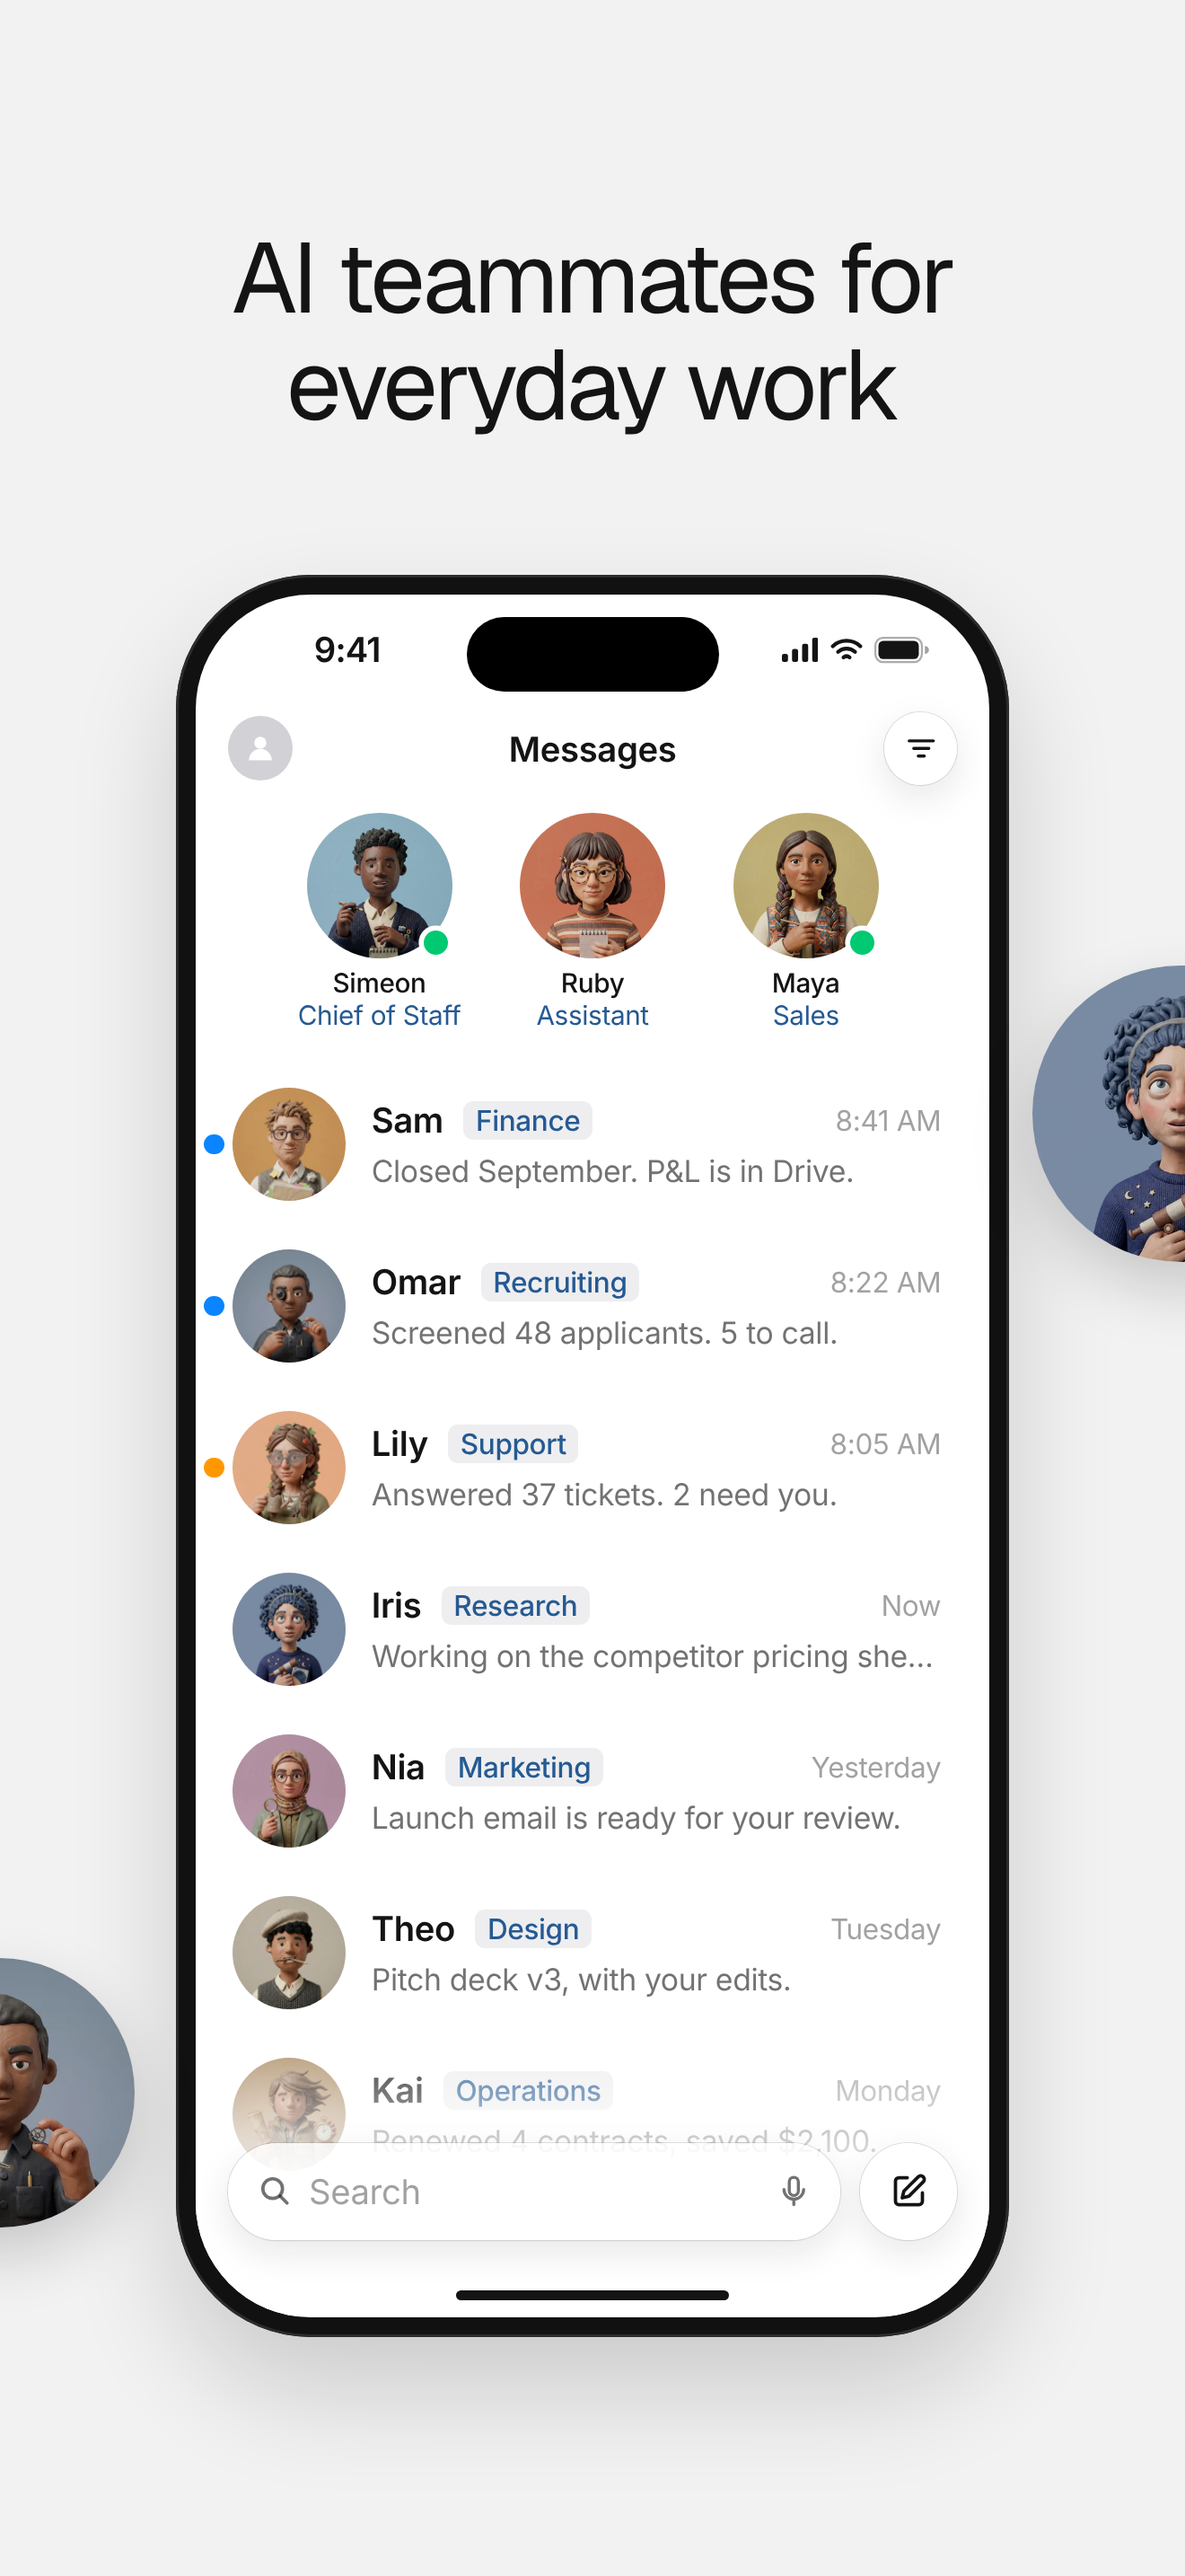
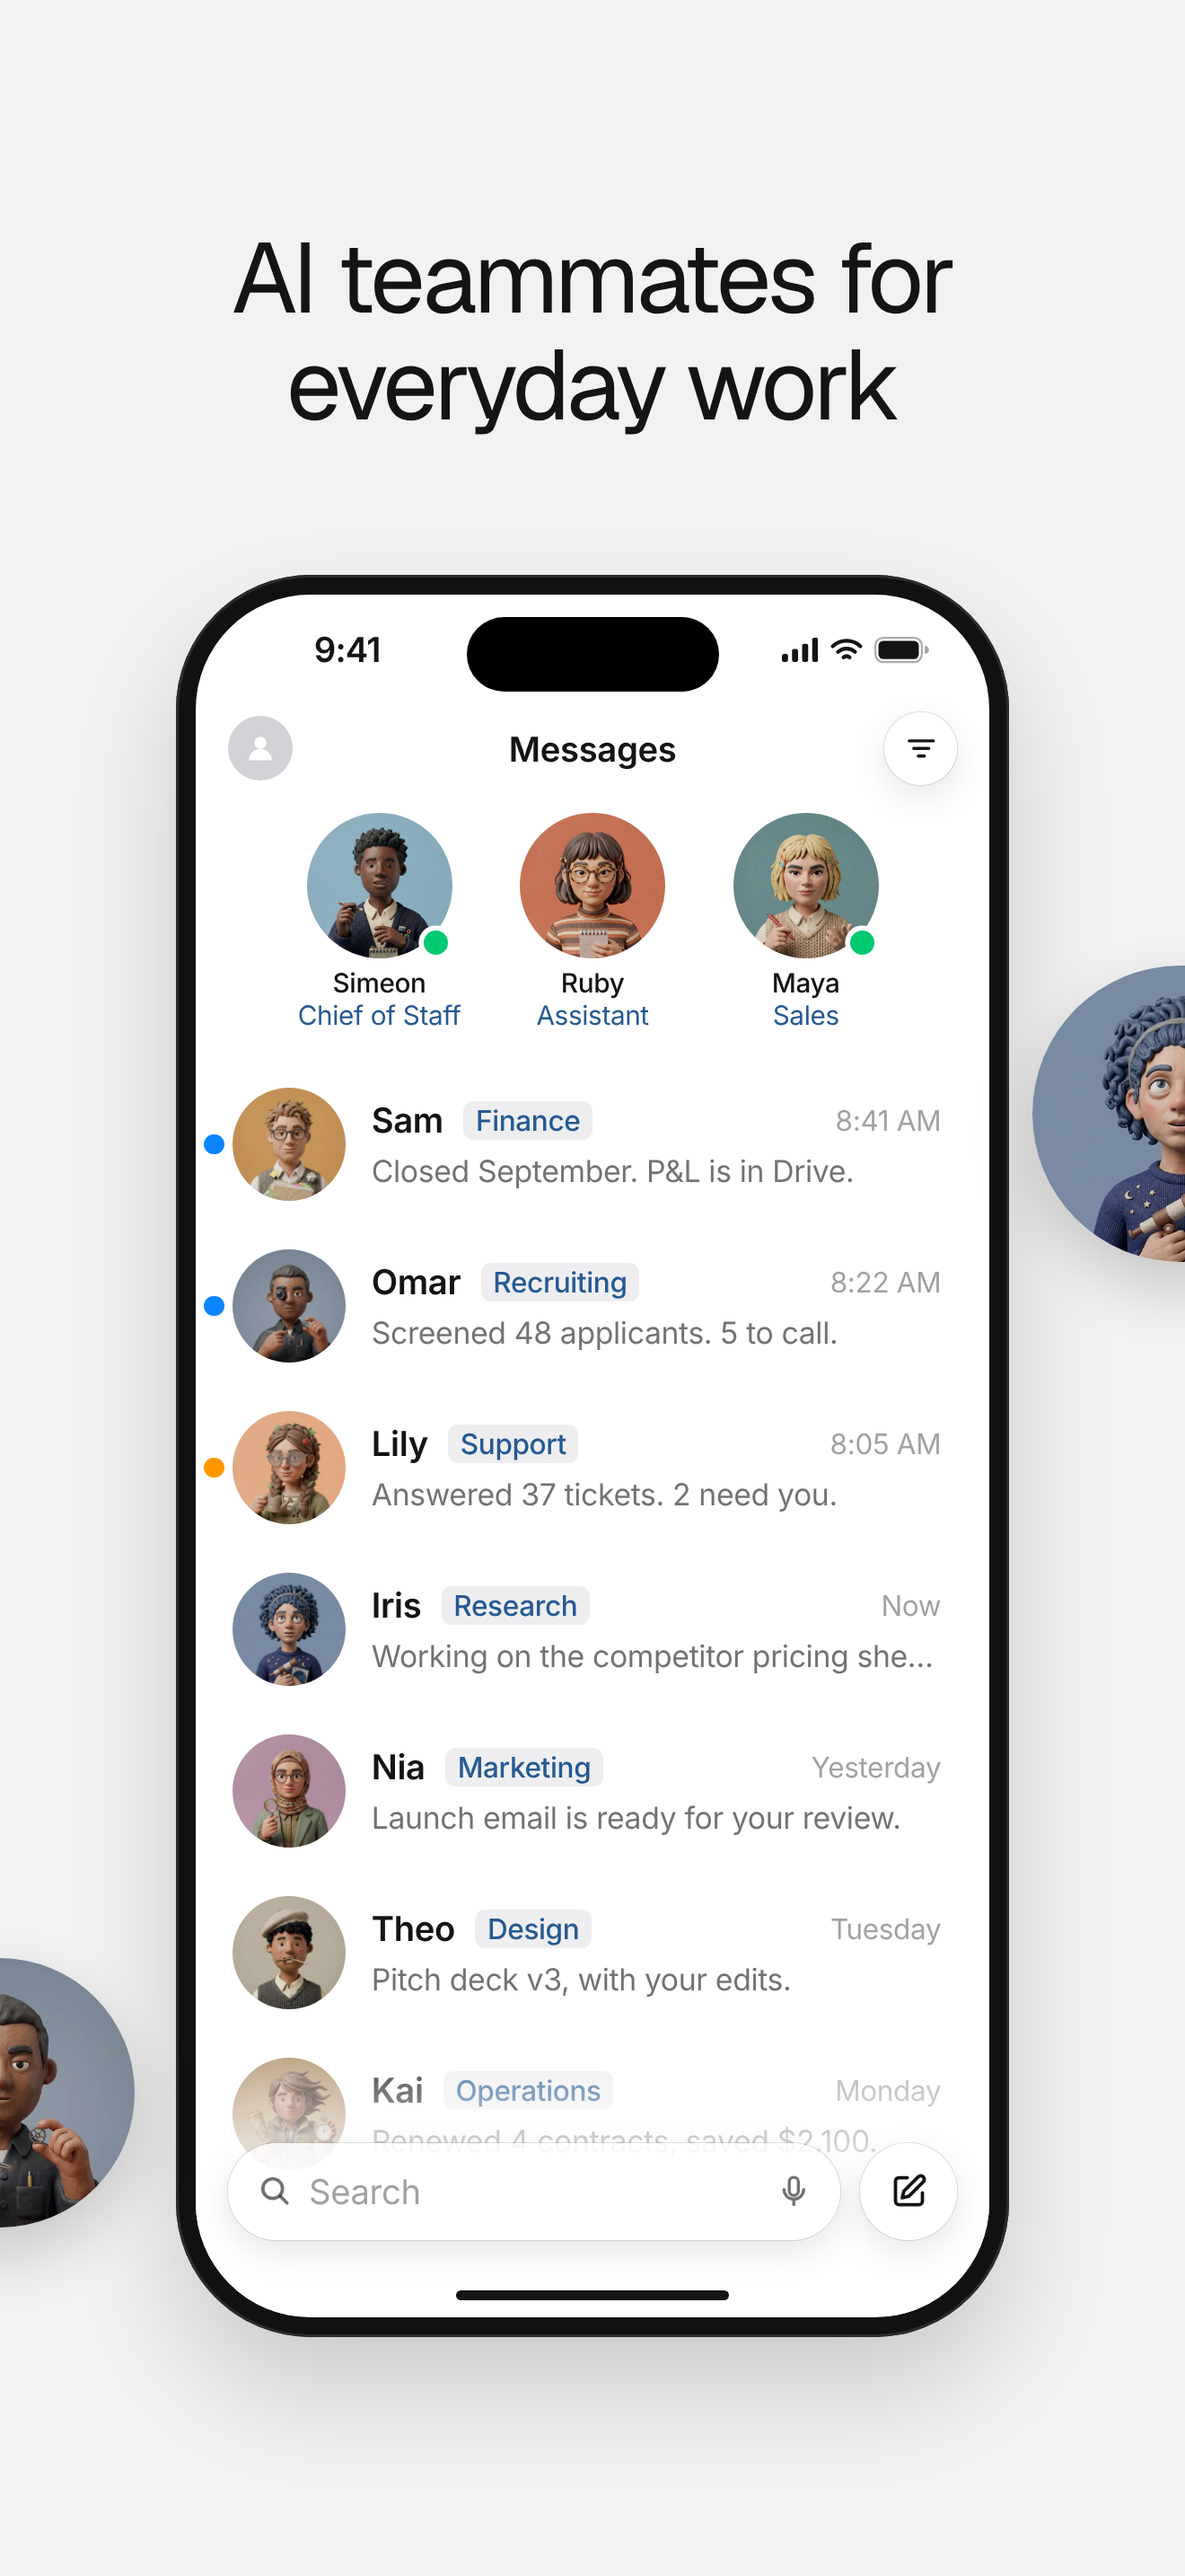
App Store screenshots: Maya wears clay-23
The founder, 11 November 2026: Maya's face is clay-23 on screens 1, 3 and 4,
her joined card in that face's colour (#618283: #7a9697 to #4a6364, Go to
Chat's words #2c3a3b), its standing figure from the apps' catalogue. The
message after her card has room under it.

Claude-Session: https://claude.ai/code/session_01YVdXyUP5gsDTr44eH5Vte9

Changed region(s): [[0.6212, 0.3103, 0.7455, 0.3724]]

diff --git a/ios/AppStore/source/Chief.dc.html b/ios/AppStore/source/Chief.dc.html
@@ -56,23 +56,23 @@ body{margin:0}
           <div class="stamp">Today 9:12 AM</div>
           <div class="me" style="width: 318px; /*fit*/">We need 20 qualified leads for the fintech launch by Friday.</div>
           <div class="them" style="width: 307px; /*fit*/ margin-top: 12px">You need a sales lead for that. I’m adding one to your team now.</div>
-          <div style="align-self: center; margin: 8px 0; display: flex; align-items: center; gap: 4px; font-size: 12px; color: rgba(20,20,20,0.6)">Messaged<span style="display: inline-flex; align-items: center; gap: 4px; padding: 4px 6px 4px 4px"><img src="/_blob/351d114fdcd08760fb0743ba2b8543cb" alt="" style="width: 16px; height: 16px; border-radius: 8px; object-fit: cover; display: block">Maya</span></div>
+          <div style="align-self: center; margin: 8px 0; display: flex; align-items: center; gap: 4px; font-size: 12px; color: rgba(20,20,20,0.6)">Messaged<span style="display: inline-flex; align-items: center; gap: 4px; padding: 4px 6px 4px 4px"><img src="/_blob/26b241f19897d539c06b49196b9fc4a5" alt="" style="width: 16px; height: 16px; border-radius: 8px; object-fit: cover; display: block">Maya</span></div>
           <!-- The card the app shows when a teammate is hired (Cards.swift, JoinedCardView; the founder, 11 November 2026:
                "chief of staff show the card for when it hires a teammate"): Maya standing on its bottom edge, the card
-               in her face's own colour (#baaa71, 16% lighter at the top, 24% darker at the bottom), Go to Chat and View Profile -->
-          <div data-pop="1.18" style="align-self: flex-start; position: relative; width: 345px; height: 176px; display: flex; border-radius: 22px; overflow: hidden; background: linear-gradient(to bottom right, #c5b888, #8d8156); box-shadow: 0 0 0 0.5px rgba(20,30,60,0.07)">
+               in her face's own colour (#618283, 16% lighter at the top, 24% darker at the bottom), Go to Chat and View Profile -->
+          <div data-pop="1.18" data-pop-room style="align-self: flex-start; position: relative; width: 345px; height: 176px; display: flex; border-radius: 22px; overflow: hidden; background: linear-gradient(to bottom right, #7a9697, #4a6364); box-shadow: 0 0 0 0.5px rgba(20,30,60,0.07)">
             <div style="position: absolute; left: -48px; top: 0; width: 208px; height: 176px; background: radial-gradient(104px 104px at 50% 70%, rgba(255,255,255,0.22), rgba(255,255,255,0))"></div>
-            <div style="position: relative; flex: none; width: 112px; height: 176px; display: flex; align-items: flex-end; justify-content: center"><img src="/_blob/50a240a36a5f97a4d7a1f5f0d568cf4f" alt="" style="width: 112px; height: 158px; object-fit: contain; object-position: 50% 100%; display: block"></div>
+            <div style="position: relative; flex: none; width: 112px; height: 176px; display: flex; align-items: flex-end; justify-content: center"><img src="/_blob/966c623bcb76b5c06f7c5748f9779933" alt="" style="width: 112px; height: 158px; object-fit: contain; object-position: 50% 100%; display: block"></div>
             <div style="position: relative; flex: 1; min-width: 0; padding: 18px 14px 18px 4px; display: flex; flex-direction: column">
               <div style="font-size: 17px; font-weight: 600; line-height: 22px; color: #ffffff">Maya just joined your team</div>
               <div style="font-size: 15px; line-height: 20px; margin-top: 4px; color: rgba(255,255,255,0.8)">Finds and qualifies your sales leads.</div>
               <div style="margin-top: auto; display: flex; gap: 6px">
-                <span style="flex: 1; height: 36px; border-radius: 18px; background: #ffffff; color: #544d33; font-size: 15px; font-weight: 500; display: flex; align-items: center; justify-content: center; white-space: nowrap">Go to Chat</span>
+                <span style="flex: 1; height: 36px; border-radius: 18px; background: #ffffff; color: #2c3a3b; font-size: 15px; font-weight: 500; display: flex; align-items: center; justify-content: center; white-space: nowrap">Go to Chat</span>
                 <span style="flex: 1; height: 36px; border-radius: 18px; background: rgba(255,255,255,0.18); box-shadow: inset 0 0 0 1px rgba(255,255,255,0.4); color: #ffffff; font-size: 15px; font-weight: 500; display: flex; align-items: center; justify-content: center; white-space: nowrap">View Profile</span>
               </div>
             </div>
           </div>
-          <div class="them" style="width: 313px; /*fit*/ line-height: 27px; margin-top: 12px"><span class="am" style="margin-left: -2px"><img src="/_blob/351d114fdcd08760fb0743ba2b8543cb" alt=""><b>Maya</b></span> is pulling the leads from <span class="bm"><img src="/_blob/2d28e88d7db394858bc988c2397e0e9e" alt=""><span style="color: #cc6247">HubSpot</span></span> now. You’ll have the list by Thursday.</div>
+          <div class="them" style="width: 313px; /*fit*/ line-height: 27px; margin-top: 12px"><span class="am" style="margin-left: -2px"><img src="/_blob/26b241f19897d539c06b49196b9fc4a5" alt=""><b>Maya</b></span> is pulling the leads from <span class="bm"><img src="/_blob/2d28e88d7db394858bc988c2397e0e9e" alt=""><span style="color: #cc6247">HubSpot</span></span> now. You’ll have the list by Thursday.</div>
         </div>
 
         <div style="position: absolute; left: 0; right: 0; bottom: 0; height: 120px; background: linear-gradient(to bottom, rgba(255,255,255,0), #ffffff 55%)"></div>
@@ -87,7 +87,7 @@ body{margin:0}
   </div>
 
   <img class="face" src="/_blob/0078749b09d5078060f0dbd39428d7a5" alt="" aria-hidden="true" style="left: -170px; top: 2400px; width: 300px; height: 300px">
-  <img class="face" src="/_blob/351d114fdcd08760fb0743ba2b8543cb" alt="" aria-hidden="true" style="left: 1150px; top: 1075px; width: 330px; height: 330px">
+  <img class="face" src="/_blob/26b241f19897d539c06b49196b9fc4a5" alt="" aria-hidden="true" style="left: 1150px; top: 1075px; width: 330px; height: 330px">
 </div>
 </x-dc>
 <script>

diff --git a/ios/AppStore/source/Main.dc.html b/ios/AppStore/source/Main.dc.html
@@ -67,7 +67,7 @@ body{margin:0}
           </div>
           <div class="tile">
             <div style="position: relative; width: 72px; height: 72px">
-              <img src="/_blob/351d114fdcd08760fb0743ba2b8543cb" alt="Maya" style="width: 72px; height: 72px; border-radius: 36px; display: block; object-fit: cover">
+              <img src="/_blob/26b241f19897d539c06b49196b9fc4a5" alt="Maya" style="width: 72px; height: 72px; border-radius: 36px; display: block; object-fit: cover">
               <span style="position: absolute; right: 2px; bottom: 2px; width: 12px; height: 12px; border-radius: 6px; background: #00c972; box-shadow: 0 0 0 2.5px #ffffff"></span>
             </div>
             <b>Maya</b><i>Sales</i>

diff --git a/ios/AppStore/source/Tools.dc.html b/ios/AppStore/source/Tools.dc.html
@@ -74,7 +74,7 @@ body{margin:0}
     </div>
   </div>
 
-  <img class="face" src="/_blob/351d114fdcd08760fb0743ba2b8543cb" alt="" aria-hidden="true" style="left: -170px; top: 1075px; width: 330px; height: 330px">
+  <img class="face" src="/_blob/26b241f19897d539c06b49196b9fc4a5" alt="" aria-hidden="true" style="left: -170px; top: 1075px; width: 330px; height: 330px">
   <img class="face" src="/_blob/3278054d30e7323001dd9f0b5e899a3c" alt="" aria-hidden="true" style="left: 1150px; top: 2180px; width: 300px; height: 300px">
 </div>
 </x-dc>
